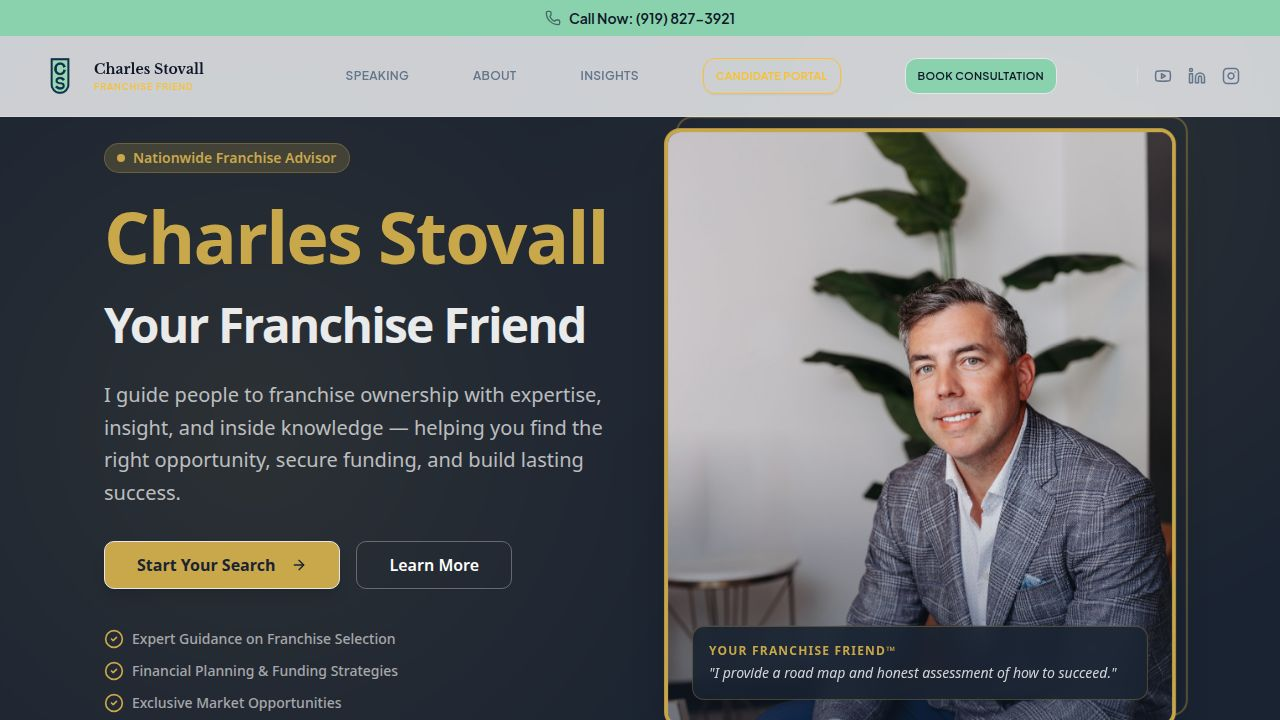
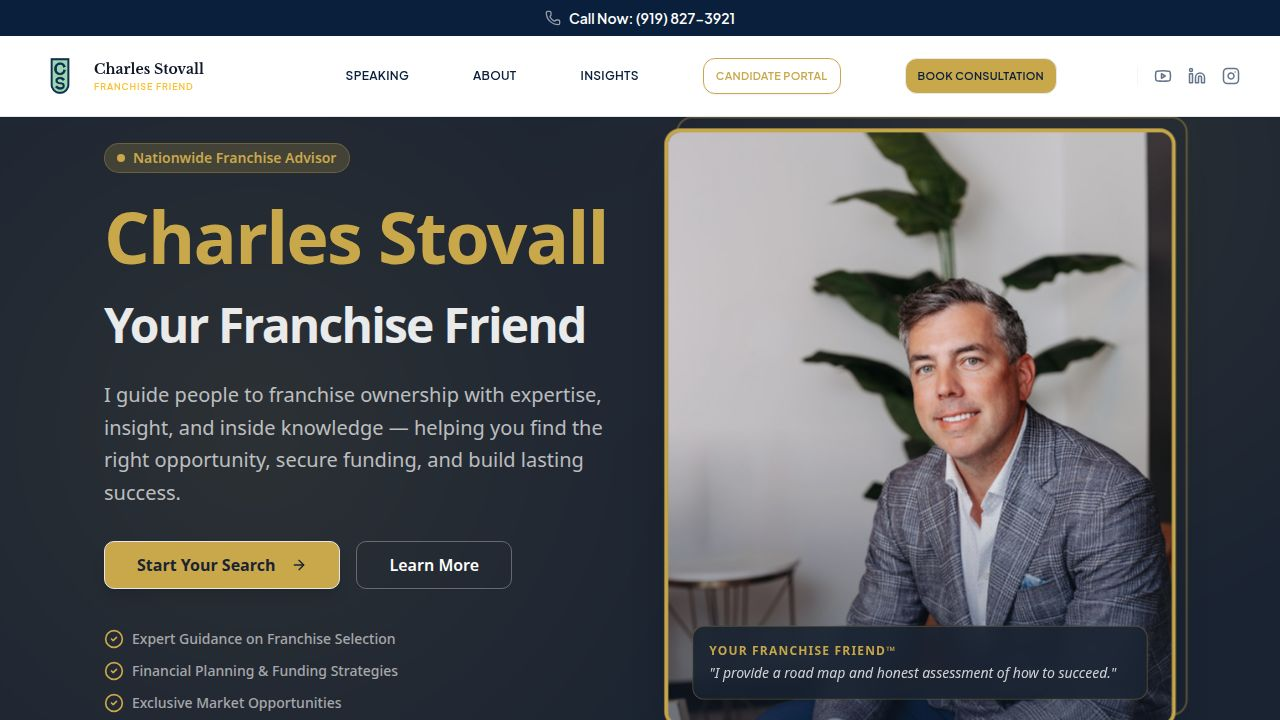
Update website header and navigation colors for better brand consistency
Adjusted CSS variables and inline styles in `Navbar.tsx` to implement the specified color scheme for announcement bar, navigation links, and buttons, including desktop and mobile views.

Replit-Commit-Author: Agent
Replit-Commit-Session-Id: 4e91aaca-5b9b-480f-8afd-040988047014
Replit-Commit-Checkpoint-Type: full_checkpoint
Replit-Commit-Event-Id: c4ca2aea-0384-4f06-99d8-26c4dfa29449
Replit-Commit-Screenshot-Url: https://storage.googleapis.com/screenshot-production-us-central1/515b29f0-1d64-4138-b143-4a5747dfb7ff/4e91aaca-5b9b-480f-8afd-040988047014/1rtbnFP

Changed region(s): [[0.0, 0.0, 1.0, 0.1833], [0.5625, 0.8861, 0.5938, 0.9167]]

diff --git a/client/src/components/Navbar.tsx b/client/src/components/Navbar.tsx
@@ -14,10 +14,10 @@ export function Navbar() {
   ];
 
   return (
-    <nav className="fixed top-0 left-0 right-0 z-50 bg-background/80 backdrop-blur-md border-b border-border/40">
+    <nav className="fixed top-0 left-0 right-0 z-50 bg-white border-b border-gray-200 shadow-sm">
       <a 
         href="tel:9198273921" 
-        className="bg-accent-pop text-primary py-2 px-4 flex items-center justify-center gap-2 hover:bg-accent-pop/90 transition-colors"
+        className="bg-[#0A1F3C] text-white py-2 px-4 flex items-center justify-center gap-2 hover:bg-[#0A1F3C]/90 transition-colors"
         data-testid="button-call-top"
       >
         <Phone size={16} className="animate-pulse" />
@@ -44,7 +44,7 @@ export function Navbar() {
               <a
                 key={link.name}
                 href={link.href}
-                className="text-xs font-semibold text-muted-foreground hover:text-accent-pop transition-colors whitespace-nowrap uppercase tracking-wide relative"
+                className="text-xs font-semibold text-[#0A1F3C] hover:text-[#C9A84C] transition-colors whitespace-nowrap uppercase tracking-wide relative"
               >
                 {link.name}
                 <span className="absolute -bottom-1 left-0 w-0 h-0.5 bg-accent-pop group-hover:w-full transition-all"></span>
@@ -53,14 +53,14 @@ export function Navbar() {
             <Link href="/client-portal">
               <Button 
                 variant="outline" 
-                className="border-secondary text-secondary hover:bg-secondary/10 font-semibold text-[11px] uppercase tracking-wide h-8 px-3 py-1"
+                className="border-[#C9A84C] text-[#C9A84C] hover:bg-[#C9A84C]/10 bg-white font-semibold text-[11px] uppercase tracking-wide h-8 px-3 py-1"
                 data-testid="button-client-portal"
               >
                 Candidate Portal
               </Button>
             </Link>
             <a href="https://calendly.com/charles-stovall/intro" target="_blank" rel="noopener noreferrer">
-              <Button className="bg-accent-pop text-primary hover:bg-accent-pop/90 font-semibold text-[11px] uppercase tracking-wide h-8 px-3 py-1">
+              <Button className="bg-[#C9A84C] text-[#0A1F3C] hover:bg-[#b8953f] font-semibold text-[11px] uppercase tracking-wide h-8 px-3 py-1">
                 Book Consultation
               </Button>
             </a>
@@ -95,14 +95,14 @@ export function Navbar() {
             initial={{ opacity: 0, height: 0 }}
             animate={{ opacity: 1, height: "auto" }}
             exit={{ opacity: 0, height: 0 }}
-            className="md:hidden border-b border-border bg-background overflow-hidden"
+            className="md:hidden border-b border-gray-200 bg-white overflow-hidden"
           >
             <div className="container mx-auto px-4 py-4 flex flex-col gap-4">
               {navLinks.map((link) => (
                 <a
                   key={link.name}
                   href={link.href}
-                  className="text-lg font-medium text-foreground py-2"
+                  className="text-lg font-medium text-[#0A1F3C] py-2"
                   onClick={() => setIsOpen(false)}
                 >
                   {link.name}
@@ -111,13 +111,13 @@ export function Navbar() {
               <Link href="/client-portal" onClick={() => setIsOpen(false)}>
                 <Button 
                   variant="outline" 
-                  className="w-full border-secondary text-secondary hover:bg-secondary/10 font-semibold"
+                  className="w-full border-[#C9A84C] text-[#C9A84C] hover:bg-[#C9A84C]/10 bg-white font-semibold"
                 >
                   Candidate Portal
                 </Button>
               </Link>
               <a href="https://calendly.com/charles-stovall/intro" target="_blank" rel="noopener noreferrer" className="w-full">
-                <Button className="w-full bg-accent-pop text-primary hover:bg-accent-pop/90 font-semibold">
+                <Button className="w-full bg-[#C9A84C] text-[#0A1F3C] hover:bg-[#b8953f] font-semibold">
                   Book a Consultation
                 </Button>
               </a>
